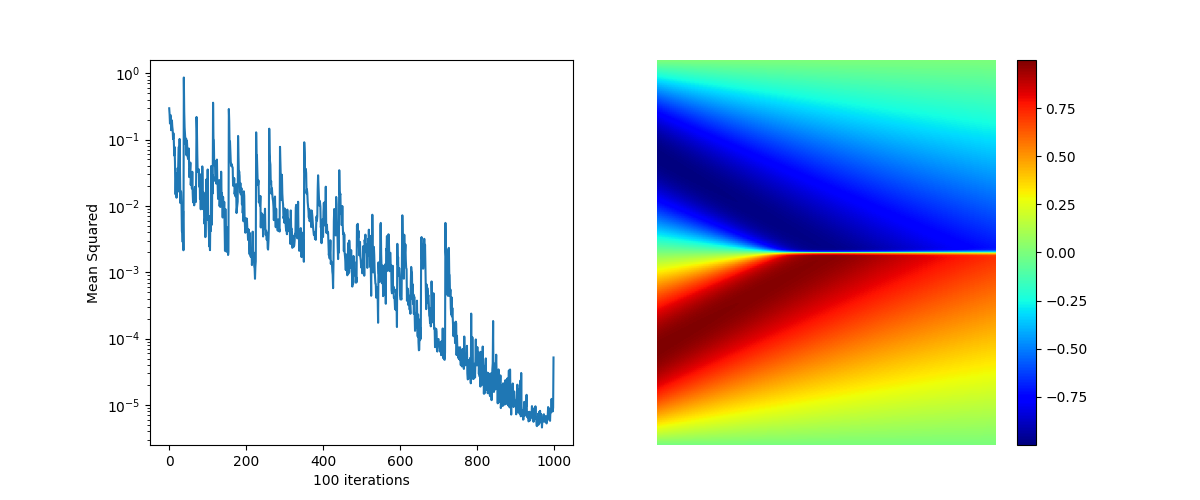
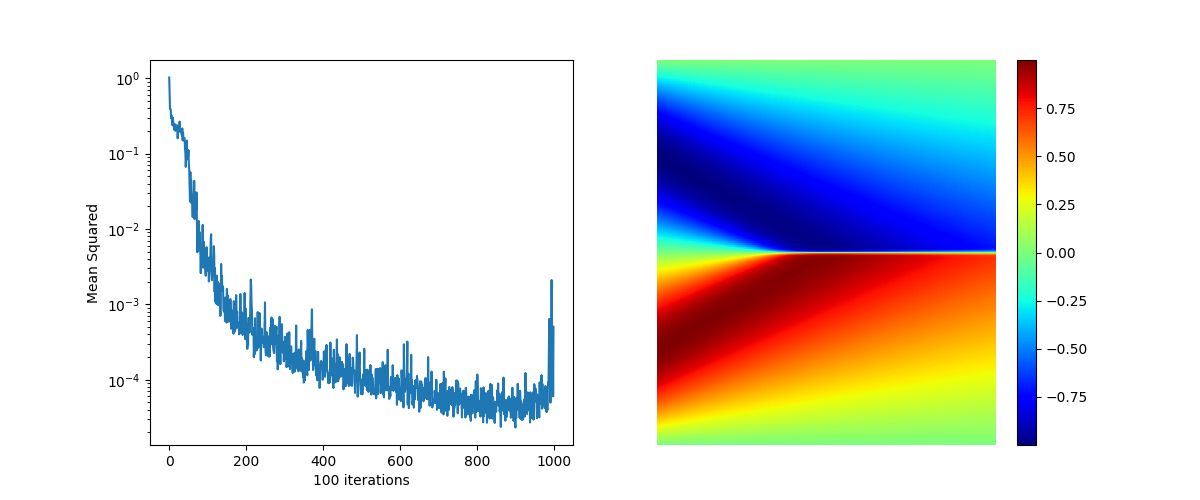
boundary condition and computing domain

diff --git a/pinns/ivps.py b/pinns/ivps.py
@@ -6,6 +6,7 @@ from jax.experimental.jet import jet
 
 from pinns.nn import Siren
 
+
 class ivps:
     def __init__(self, width=64, depth=5, w0=8.):
         # architecture
@@ -26,11 +27,11 @@ class ivps:
         loss_ic = np.mean( (init_pred - init_data)**2 )
         return loss_ic
 
+    # Default: periodic on x
     def loss_bc(self, params, t):
         x = self.X * self.x_bd
-        # Dirichlet on x
         u = self.u(params, t,x)
-        loss_bc = np.mean( u**2 )
+        loss_bc = np.mean( (u[...,-1] - u[...,0])**2 )
         return loss_bc
     
     @partial(jit, static_argnums=(0,))
@@ -58,6 +59,9 @@ class burgers(ivps):
         super().__init__(width, depth, w0)
         self.nu = nu
     
+    def u0(self, x):
+        return -np.sin(np.pi*x)
+
     def pde(self, params, t,x):
         u_t = jvp(lambda t: self.u(params, t,x), (t,), (np.ones(t.shape),))[1]
         u, (u_x, u_xx) = jet(lambda x: self.u(params, t,x), 
@@ -66,9 +70,12 @@ class burgers(ivps):
         pde = (u_t + u*u_x - self.nu*u_xx/np.pi)**2 
         return pde
     
-    # Initial function
-    def u0(self, x):
-        return -np.sin(np.pi*x)
+    def loss_bc(self, params, t):
+        x = self.X * self.x_bd
+        # Dirichelt on x
+        u = self.u(params, t,x)
+        loss_bc = np.mean( u**2 )
+        return loss_bc
 
 
 class advection(ivps):
@@ -79,7 +86,7 @@ class advection(ivps):
 
     def __init__(self, width=64, depth=5, w0=8., beta=30.):
         super().__init__(width, depth, w0)
-        # coefficient
+        # coefficients
         self.beta = beta
 
     def u0(self, x):
@@ -100,7 +107,7 @@ class reaction(ivps):
 
     def __init__(self, width=64, depth=5, w0=8., rho=5.):
         super().__init__(width, depth, w0)
-        # coefficient
+        # coefficients
         self.rho = rho
     
     def u0(self, x):
@@ -121,7 +128,7 @@ class reaction_diffusion(ivps):
 
     def __init__(self, width=64, depth=5, w0=8., nu=5., rho=5.):
         super().__init__(width, depth, w0)
-        # coefficient
+        # coefficients
         self.nu, self.rho = nu, rho
     
     def u0(self, x):

diff --git a/pinns/training.py b/pinns/training.py
@@ -6,28 +6,29 @@ import matplotlib.pyplot as plt
 
 def train(model, optimizer, domain_tr, key, params, nIter=5*10**4):
     T, X = model.T, model.X
+    x_L, x_R = model.x_bd
     domain = [*domain_tr]
     Nt, Nx = domain[0].size, domain[1].size
     state = optimizer.init_state(params)
-    model.loss_log = []
+    loss_log = []
 
     @jit
     def step(params, state, *args, **kwargs):
-        # optimizer: OptaxSolver
-        params, state= optimizer.update(params, state, *args, **kwargs)
+        params, state = optimizer.update(params, state, *args, **kwargs)
         return params, state
 
     for it in (pbar:= trange(1,nIter+1)):
         params, state = step(params, state, *domain)
         if it%100 == 0:
             loss = state.value
-            model.loss_log.append(loss)
+            loss_log.append(loss)
             # domain sampling
             key, *subkey = random.split(key, 3)
             domain[0] = T*random.uniform(subkey[0], (Nt,))
-            domain[1] = X*random.uniform(subkey[1], (Nx,), minval=-1, maxval=1)
-            model.opt_params = params
+            domain[1] = X*random.uniform(subkey[1], (Nx,), minval=x_L, maxval=x_R)
             pbar.set_postfix({'PINN Loss': f'{loss:.3e}'})
+    
+    return params, loss_log
 
 
 def drawing(model, save=True, fname='advection'):

diff --git a/main.py b/main.py
@@ -1,16 +1,16 @@
 from jax import random
 import jax.numpy as np
-from optax import adam
+from optax import adam, cosine_decay_schedule
 from jaxopt import OptaxSolver
 
 from pinns import ivps, training
 
 
-model = ivps.advection(width=64, depth=5, w0=8)
+model = ivps.burgers(width=64, depth=5, w0=8)
 print(f'pde: {model.name}')
 
 nIter = 1*10**5
-lr = 1e-04
+lr = cosine_decay_schedule(1e-04, nIter)
 optimizer = OptaxSolver(fun=model.loss, opt=adam(lr))
 
 Nt, Nx = 128, 128
@@ -20,5 +20,5 @@ domain_tr = (model.T * np.linspace(0,1, Nt),
 init_key, train_key = random.split(random.PRNGKey(0))
 init_params = model.init(init_key)
 
-training.train(model, optimizer, domain_tr, train_key, init_params, nIter=nIter)
+model.opt_params, model.loss_log = training.train(model, optimizer, domain_tr, train_key, init_params, nIter=nIter)
 training.drawing(model, fname=model.name)
